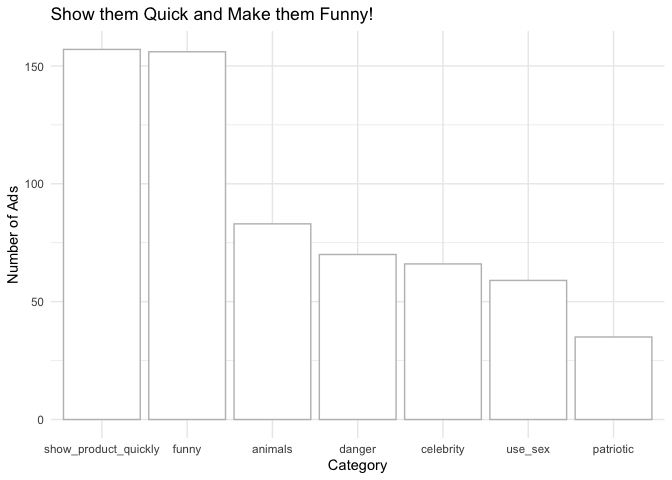
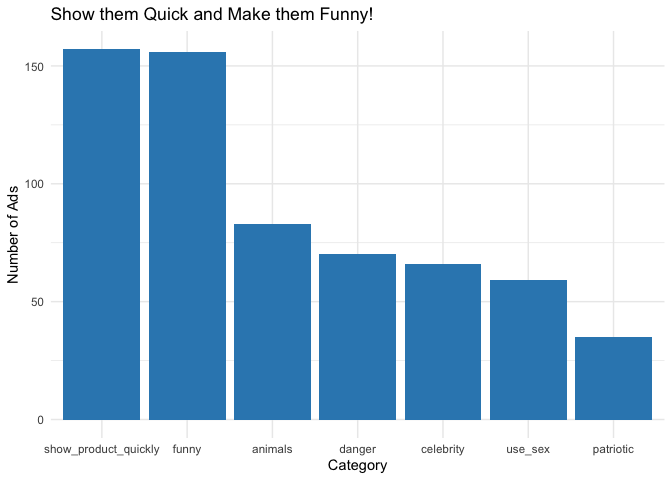
Wrap up q1 and begin q2 of EDA

diff --git a/notebooks/super_bowl_ads.md b/notebooks/super_bowl_ads.md
@@ -40,7 +40,7 @@ library(tidytuesdayR) # library from which we'll retrieve the data
 library(patchwork)
 library(stringr)
 library(reshape2)
-
+library(scales)
 # Let's also set a theme for our plots
 theme_set(theme_minimal())
 ```
@@ -178,11 +178,11 @@ With our data relatively clean (for analysis), let’s formulate a list of
 questions we can answer regarding this dataset:
 
 1.  Are certain types of commercials associated with a specific type of
-    brand? Are they consistent their type of commercial or does it
-    change over time?
+    brand? How has the type of commercials changed over time?
 2.  What are the most popular commercials? We can determine this by the
     number of views that a video received and furthermore, we can do
-    some feature
+    some feature engineering to further define other sorts of
+    superlatives (most controversial, likeable, etc.)
 3.  Does having more categories help or hurt a commercial? Tying in with
     question 2, do the most popular commercials typically have two or
     more categories? Or are they more focused on one single category?
@@ -354,8 +354,7 @@ sum_df %>%
   aes(x = reorder(category, -count), y = count) + 
   geom_bar(
     stat = "identity",
-    color = 'gray',
-    fill = 'white') + 
+    fill = '#3388bd') + 
   labs(
     title = "Show them Quick and Make them Funny!",
     x = "Category",
@@ -377,6 +376,9 @@ that with certainty now:
 # Set up plotting space
 brand_names <- as.list(group_category_by_brand$brand)
 
+# Generate a list to house the plot
+plots <- list()
+
 for (i in brand_names) { # Loop over loop.vector
   
   # Subset the dataframe
@@ -385,7 +387,7 @@ for (i in brand_names) { # Loop over loop.vector
   # store data in column.i as x
   plot <- df_subset %>%
     ggplot() + 
-    aes(x = reorder(brand, +value), y = value) + 
+    aes(x = brand, y = value) + 
     geom_bar(
       aes(fill = variable),
       stat = "identity",
@@ -396,8 +398,133 @@ for (i in brand_names) { # Loop over loop.vector
       x = "Brand",
       y = "Number of Ads"
     )
+  
+  # Return the plot objects
   print(plot)
 }
 ```
 
 ![](super_bowl_ads_files/figure-gfm/unnamed-chunk-11-1.png)<!-- -->![](super_bowl_ads_files/figure-gfm/unnamed-chunk-11-2.png)<!-- -->![](super_bowl_ads_files/figure-gfm/unnamed-chunk-11-3.png)<!-- -->![](super_bowl_ads_files/figure-gfm/unnamed-chunk-11-4.png)<!-- -->![](super_bowl_ads_files/figure-gfm/unnamed-chunk-11-5.png)<!-- -->![](super_bowl_ads_files/figure-gfm/unnamed-chunk-11-6.png)<!-- -->![](super_bowl_ads_files/figure-gfm/unnamed-chunk-11-7.png)<!-- -->![](super_bowl_ads_files/figure-gfm/unnamed-chunk-11-8.png)<!-- -->![](super_bowl_ads_files/figure-gfm/unnamed-chunk-11-9.png)<!-- -->![](super_bowl_ads_files/figure-gfm/unnamed-chunk-11-10.png)<!-- -->
+
+Here are the most interesting items I found from these plots
+
+1.  Budweiser has a large number of ads using animals which is not
+    common across the board. This makes sense as they have their famous
+    clydesdales’ commercials which have become a staple in the Super
+    Bowl lineup
+2.  The food/beverage companies show their products quickly and try to
+    do so comedically. The one notable point here is that Pepsi loves to
+    use celebrities in its commercials.
+3.  NFL stays away from commercials involving danger, sex, or animals -
+    for a professional organization, I’d say this checks out.
+4.  Surprisingly, a car brand, KIA, uses sex quite frequently in their
+    ads.
+
+As the final part of this subquestion, I want to look at how ads have
+changed over time. To do this, we’ll need to first group the ads by year
+and then reproduce our `melt` method from before to generate a plot:
+
+``` r
+# Group the columns by each category
+group_category_by_year <- super_bowl_ads %>%
+  group_by(year) %>%
+  summarize(
+    funny = sum(funny),
+    show_product_quickly = sum(show_product_quickly),
+    patriotic = sum(patriotic), 
+    celebrity = sum(celebrity),
+    danger = sum(danger),
+    animals = sum(animals),
+    use_sex = sum(use_sex))
+
+# Convert tible to dataframe
+group_category_by_year <- as.data.frame(group_category_by_year)
+
+# Melt all the values from the dataframe to create a new one
+melt_df_year <- melt(group_category_by_year, id.vars = 1)
+
+# Generate a grouped barplot
+ggplot(
+  data = melt_df_year,
+  aes(x = year, y = value))+ 
+  geom_bar(
+    aes(fill = variable),
+    stat = "identity",
+    position = "stack") + 
+  scale_fill_brewer(palette="Spectral") +
+  labs(
+    title = "No Discernable Pattern Across Time",
+    x = "Year",
+    y = "Number of Ads"
+  )
+```
+
+![](super_bowl_ads_files/figure-gfm/unnamed-chunk-12-1.png)<!-- -->
+
+As noted in the title of the graph, there doesn’t seem to be any
+discernable patterns for our top 10 brands. What I would say is more
+surprising is that we don’t see the number of ads they produce increase
+over time.
+
+------------------------------------------------------------------------
+
+### 2. Ad Superlatives
+
+The first ad superlative we can give is “most popular.” To determine
+which has been the most popular ad, we will simply look at which ad has
+the greatest number of views:
+
+``` r
+super_bowl_ads %>%
+  arrange(desc(view_count)) %>%
+  slice(1:10) %>%
+  ggplot() + 
+  aes(x = view_count, y = reorder(title, +view_count)) + 
+  scale_x_continuous(labels = label_number(suffix = " M", scale = 1e-6)) + 
+  geom_bar(
+    stat = "identity",
+    fill = '#3388bd') + 
+  labs(
+    x = "Number of Views",
+    y = "Video Title"
+  )
+```
+
+![](super_bowl_ads_files/figure-gfm/unnamed-chunk-13-1.png)<!-- -->
+
+Seems like we have a clear winner here: “Doritos Sling Baby” with a
+whopping 175 million views! The next highest ad is the Budweiser “Born
+the Hard Way” ad with only a fraction of the views. Such a disparity
+makes me wonder if this is the best way to determine “popularity” but we
+really aren’t offered any better metric to determine this. So we’ll take
+it for what it is and continue with some other superlatives.
+
+#### Most Liked and Disliked Super Bowl Commercials
+
+To determine this, I want to create four ratios:
+
+1.  Likes to Views Ratio
+2.  Dislikes to Views Ratios
+3.  Likes to Total Reactions (Likes + Dislikes)
+4.  Dislikes to Total Reactions (Likes + Dislikes)
+
+Let’s do it!
+
+``` r
+# 1 + 2: Likes/Dislikes to Views Ratios
+super_bowl_ads$ratio_likes_views <- super_bowl_ads$like_count / 
+  super_bowl_ads$view_count
+super_bowl_ads$ratio_dislikes_views <- super_bowl_ads$dislike_count / 
+  super_bowl_ads$view_count
+
+# 3 + 4: Likes/Dislikes to Total Reactions Ratios
+# First create the total reactions col
+super_bowl_ads$total_reactions <- super_bowl_ads$like_count + 
+  super_bowl_ads$dislike_count
+
+# Generate the other two ratios
+super_bowl_ads$ratio_likes_react <- super_bowl_ads$like_count / 
+  super_bowl_ads$total_reactions
+super_bowl_ads$ratio_dislikes_react <- super_bowl_ads$dislike_count /
+  super_bowl_ads$total_reactions
+```
